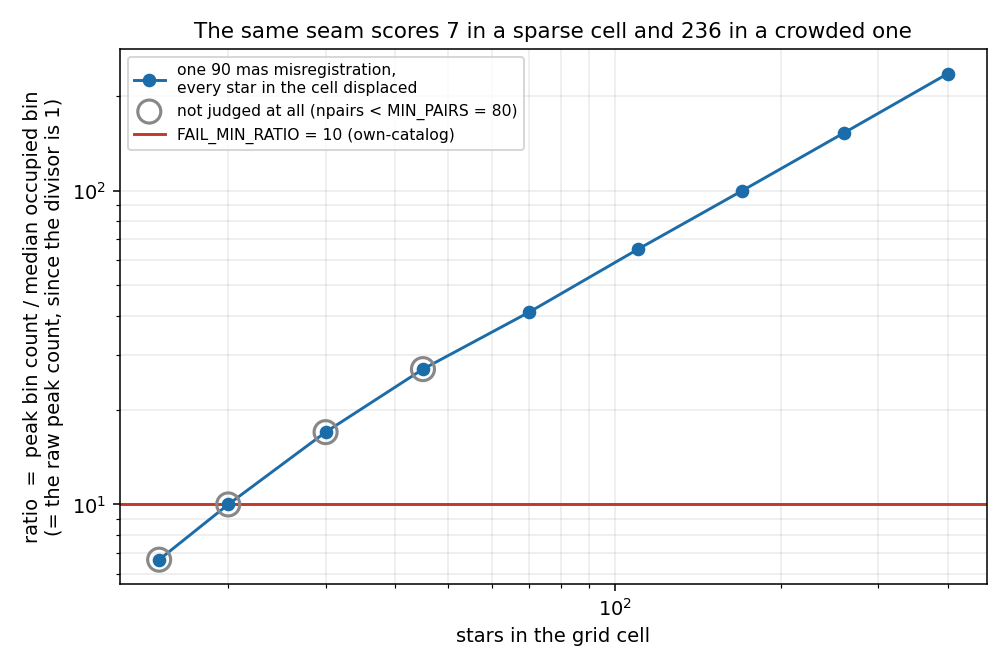
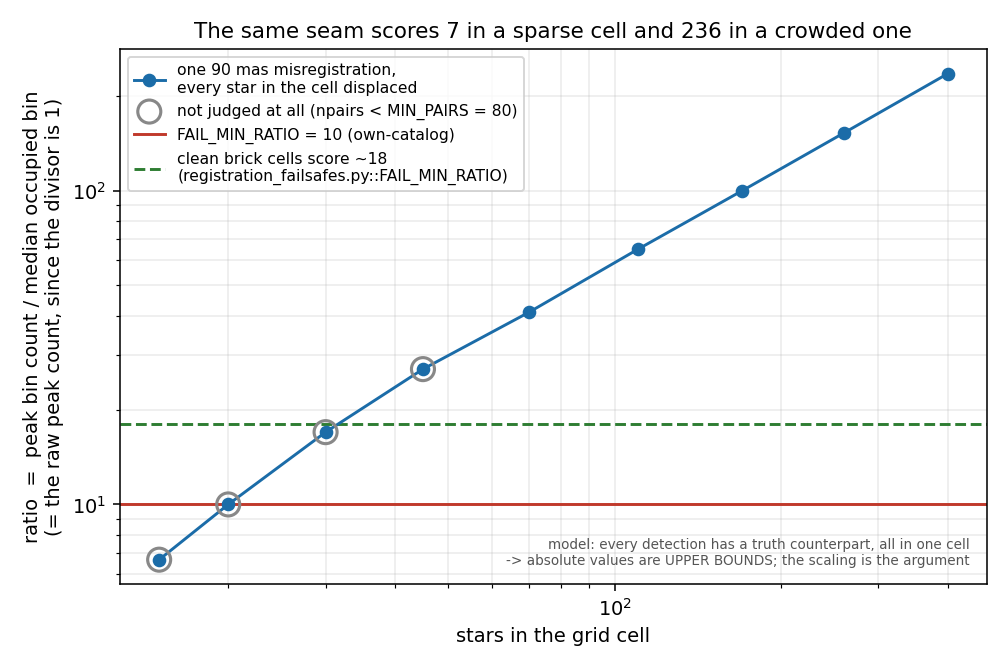
review 5: derive the model's ratio at the real pair counts; drop line-number citations
Three findings from round 5, plus the CI failure they arrived with.

- CI: tests/test_doc_code_references.py failed on two `registration_failsafes.py:52`
  / `:51` citations in the report.  Line numbers go stale silently, which is the
  guard's whole point; both now name the symbol
  (`scripts/release/registration_failsafes.py::FAIL_MIN_RATIO`), as do the three
  the script carried.

- "69-79" was the one number in the document not derived from the model: it was
  read off Table 2's bracketing rows, and the seven real cells fall between them.
  `model_ratio_at_npairs` now solves for the star count that reproduces each
  observed pair count -- pair count grows ~n^1.5, so a straight-line inverse
  overshoots, and the interpolated guess is refined along the local power law
  until the realised count is within 2% -- and measures there.  Run at 231 and
  317 pairs the model scores 66-82, so the range is now computed and printed
  rather than quoted.  The ~4x gap to the recorded clean-cell ~18 is unchanged.

- The script printed "first cleared at 20 stars per cell" directly above a table
  whose 20-star row reads "UNVERIFIED (not even judged)" -- its 23 pairs are under
  MIN_PAIRS = 80, so clearing the bar there decides nothing.  It now reports both:
  the ratio first reaches FAIL_MIN_RATIO at 20 stars, and the first row that
  actually FAILS is 70.

Figure regenerated from the same run.

Claude-Session: https://claude.ai/code/session_017Kovv3DxHxuW9jr8gm7Xb7

diff --git a/scripts/analysis/registration_contrast_statistic.py b/scripts/analysis/registration_contrast_statistic.py
@@ -69,13 +69,15 @@ therefore crossed at a STAR DENSITY, not at a misregistration level.
 And it is crossed low.  The seven brick cells that were a false failure read
 ratio 5-8 at 232-323 pairs; their peak bins held 1.7-2.5% of their pairs, i.e.
 no coherent signal.  The gate's OWN record is the better anchor for where the
-bar sits: registration_failsafes.py:52-54 notes that clean brick cells verify at
-median contrast ~18, so FAIL_MIN_RATIO = 10 is under what a CORRECTLY registered
-cell of that field scores.
+bar sits: the comment on registration_failsafes.py's own `FAIL_MIN_RATIO` notes
+that clean brick cells verify at median contrast ~18, so the bar sits UNDER what
+a correctly registered cell of that field already scores.
 
-CALIBRATION CAVEAT: this model puts a fully misregistered cell of that pair
-count at 69-79, about 4x the recorded ~18 for real clean cells.  It assumes
-every detection has a truth counterpart and that all of them lie in one cell, so
+CALIBRATION CAVEAT: run at those same pair counts (solved for, not read off a
+nearby row), this model puts a fully misregistered cell at 66-82 -- about 4x the
+recorded ~18 for real clean cells.  The run derives and prints that range rather
+than quoting it.  The model assumes every detection has a truth counterpart and
+that all of them lie in one cell, so
 its absolute values are UPPER BOUNDS.  The argument rests on the scaling
 (ratio ~ star count, thresholds fixed), which is arithmetic; a replacement
 threshold must be calibrated on real cells, not on this table.
@@ -121,6 +123,12 @@ POS_SCATTER_ARCSEC = 0.015
 #: comparison of the same regions read <= 22 mas.  (npairs, ratio), from #170.
 BRICK_F405N_FALSE_POSITIVES = [(321, 8), (232, 5), (323, 6), (278, 6),
                                (287, 5), (241, 6), (266, 5)]
+
+#: What a CORRECTLY registered brick cell actually scores, per the release
+#: gate's own record (the comment on registration_failsafes.py::FAIL_MIN_RATIO).
+#: This is the anchor the fail bar should be compared against -- not this script's model, whose
+#: absolute values are upper bounds.
+CLEAN_BRICK_CONTRAST = 18.0
 
 
 def bin_edges():
@@ -175,6 +183,39 @@ def sweep(counts, rng, trials, offset_mas=90.0, displaced_fraction=1.0):
     return rows
 
 
+def model_ratio_at_npairs(targets, rows, rng, trials, tol=0.02, passes=6):
+    """What this model scores at a GIVEN pair count.
+
+    The real cells being compared against are quoted by pair count, not by star
+    count, and they fall BETWEEN the swept rows.  Rather than read the nearest
+    row -- or, worse, quote a number by hand -- solve for the star count that
+    produces each target pair count and run the model there.
+
+    Interpolating the sweep gets within ~6%, which is not close enough to say
+    "at the same density": pair count grows faster than linearly in star count
+    (~n^1.5 here, since each extra star pairs with every other one inside the
+    search radius), so a straight-line inverse overshoots.  So the interpolated
+    guess is refined by rerunning and correcting along that local power law
+    until the realised pair count is within ``tol`` of the target.
+
+    Returns ``[(target, realised npairs, ratio), ...]``.
+    """
+    lp = np.log([r[1] for r in rows])
+    ls = np.log([r[0] for r in rows])
+    slope = np.gradient(lp, ls)          # d log(npairs) / d log(stars)
+    out = []
+    for t in targets:
+        n = max(1, int(round(np.exp(np.interp(np.log(t), lp, ls)))))
+        for _ in range(passes):
+            _n, npair, _off, ratio, _bg = sweep([n], rng, trials)[0]
+            if npair > 0 and abs(npair - t) / t <= tol:
+                break
+            k = float(np.interp(np.log(max(npair, 1)), lp, slope))
+            n = max(1, int(round(n * (t / max(npair, 1)) ** (1.0 / max(k, 0.5)))))
+        out.append((t, npair, ratio))
+    return out
+
+
 def main(argv=None):
     ap = argparse.ArgumentParser(description=__doc__.split("\n")[0])
     ap.add_argument("--trials", type=int, default=25)
@@ -206,19 +247,33 @@ def main(argv=None):
         print(f"{n:>11}{npair:>9.0f}{off:>11.0f}{ratio:>8.0f}  {verdict}")
 
     crossed = next((r[0] for r in rows if r[3] >= FAIL_MIN_RATIO), None)
+    failed = next((r[0] for r in rows if r[1] >= MIN_PAIRS
+                   and r[3] >= MIN_PEAK_RATIO and r[2] > OFF_MAX
+                   and r[3] >= FAIL_MIN_RATIO), None)
     print(f"\nSame seam throughout.  The own-catalog fail bar is "
-          f"FAIL_MIN_RATIO = {FAIL_MIN_RATIO:.0f}, first cleared at "
-          f"{crossed} stars per cell.")
+          f"FAIL_MIN_RATIO = {FAIL_MIN_RATIO:.0f}.  The ratio first reaches it "
+          f"at {crossed} stars per\ncell -- but that cell is NOT judged (its "
+          f"pair count is under MIN_PAIRS = {MIN_PAIRS:.0f}), so\nclearing the "
+          f"bar there decides nothing.  The first row that actually FAILS is "
+          f"{failed}\nstars per cell.")
     frac = [100.0 * r / n for n, r in BRICK_F405N_FALSE_POSITIVES]
+    obs_npairs = [n for n, _ in BRICK_F405N_FALSE_POSITIVES]
+    at = model_ratio_at_npairs([min(obs_npairs), max(obs_npairs)],
+                               rows, rng, args.trials)
+    lo, hi = at[0][2], at[1][2]
     print(f"\nThe seven brick F405N cells that were a FALSE failure in 2026-07 "
-          f"read ratio 5-8\nat npairs 232-323 -- peak bins holding "
+          f"read ratio 5-8\nat npairs {min(obs_npairs)}-{max(obs_npairs)} -- "
+          f"peak bins holding "
           f"{min(frac):.1f}-{max(frac):.1f}% of their pairs, i.e. no coherent "
-          f"signal.\nThe gate's own record (registration_failsafes.py:52-54) "
-          f"puts CLEAN brick cells at\nmedian contrast ~18, so FAIL_MIN_RATIO "
+          f"signal.\nThe gate's own record (registration_failsafes.py::FAIL_MIN_RATIO) "
+          f"puts CLEAN brick cells at\nmedian contrast "
+          f"~{CLEAN_BRICK_CONTRAST:.0f}, so FAIL_MIN_RATIO "
           f"= {FAIL_MIN_RATIO:.0f} is under what a correctly registered cell "
-          f"scores.\nThis model puts a misregistered cell of that density at "
-          f"69-79 -- ~4x the recorded\n~18 -- so its absolute values are upper "
-          f"bounds; the SCALING is the argument.")
+          f"scores.\nRun at matching pair counts ({at[0][1]:.0f} and "
+          f"{at[1][1]:.0f}, solved for), this model scores {lo:.0f}-{hi:.0f} --"
+          f"\n~{(lo + hi) / 2 / CLEAN_BRICK_CONTRAST:.0f}x the recorded "
+          f"~{CLEAN_BRICK_CONTRAST:.0f} -- so its absolute values are upper "
+          f"bounds; the SCALING\nis the argument.")
 
     stars = [r[0] for r in rows]
     ratios = [r[3] for r in rows]
@@ -232,6 +287,12 @@ def main(argv=None):
                zorder=4, label=f"not judged at all (npairs < MIN_PAIRS = {MIN_PAIRS:.0f})")
     ax.axhline(FAIL_MIN_RATIO, color="#c0392b", lw=1.5,
                label=f"FAIL_MIN_RATIO = {FAIL_MIN_RATIO:.0f} (own-catalog)")
+    # The clean-cell anchor belongs ON the figure: the figure is what gets read,
+    # and the point of #170 is that the fail bar sits BELOW what a correctly
+    # registered cell of this field already scores.
+    ax.axhline(CLEAN_BRICK_CONTRAST, color="#2e7d32", lw=1.5, ls="--",
+               label=f"clean brick cells score ~{CLEAN_BRICK_CONTRAST:.0f}\n"
+                     f"(registration_failsafes.py::FAIL_MIN_RATIO)")
     ax.set_xscale("log"); ax.set_yscale("log")
     ax.set_xlabel("stars in the grid cell")
     ax.set_ylabel("ratio  =  peak bin count / median occupied bin\n(= the raw peak count, since the divisor is 1)")
@@ -239,6 +300,13 @@ def main(argv=None):
                  fontsize=11)
     ax.legend(fontsize=8, loc="upper left")
     ax.grid(alpha=.25, which="both")
+    # Read on its own -- as it will be, pasted into the issue -- the curve would
+    # look like a calibrated prediction.  It is not.
+    ax.text(0.98, 0.03,
+            "model: every detection has a truth counterpart, all in one cell\n"
+            "-> absolute values are UPPER BOUNDS; the scaling is the argument",
+            transform=ax.transAxes, ha="right", va="bottom", fontsize=7,
+            color="#555")
     fig.tight_layout()
     os.makedirs(os.path.dirname(args.out) or ".", exist_ok=True)
     fig.savefig(args.out, dpi=140)

diff --git a/docs/reports/REGISTRATION_CONTRAST_STATISTIC.md b/docs/reports/REGISTRATION_CONTRAST_STATISTIC.md
@@ -181,8 +181,8 @@ all, which is what makes them false positives.
 
 **The threshold sits below what a correctly-registered cell scores.** The best
 evidence for that is not this document's model but the gate's own record, at
-`registration_failsafes.py:52-54`: *"the clean brick cells verify at median
-contrast ~18"*. So `FAIL_MIN_RATIO = 10` is under the contrast a **clean** cell
+the comment on `scripts/release/registration_failsafes.py::FAIL_MIN_RATIO`:
+*"the clean brick cells verify at median contrast ~18"*. So `FAIL_MIN_RATIO = 10` is under the contrast a **clean** cell
 of that field produces — a factor of ~1.8 — which puts the bar in the noise, and
 means raising it from 5 to 10 removed those seven cells without ever having
 distinguished them from a seam. A sparse cell's genuine seam scores 7 (Table 2,
@@ -190,10 +190,12 @@ distinguished them from a seam. A sparse cell's genuine seam scores 7 (Table 2,
 populations on this band by luck of density, not because the statistic
 distinguishes them. That is the whole of #170.
 
-**Where the model and the real data disagree, and it is worth saying.** Table 2
-puts a fully misregistered cell of 232–323 pairs at `ratio` **69–79**, against
-that recorded ~18 for real clean brick cells of comparable density — a factor of
-about four. The model assumes every detection has a truth-set counterpart and
+**Where the model and the real data disagree, and it is worth saying.** The
+seven cells fall *between* Table 2's rows, so the model is re-run at their own
+pair counts rather than read off the neighbours: `model_ratio_at_npairs` solves
+for the star count that reproduces 232 and 323 pairs and measures there, giving
+`ratio` **66–82** — against that recorded ~18 for real clean brick cells of
+comparable density, a factor of about four. The model assumes every detection has a truth-set counterpart and
 that all of them sit in the one cell; real catalogs are incomplete and real
 cells are not that clean, so **Table 2's absolute values are upper bounds**.
 What the argument rests on is the *scaling* — `ratio` growing linearly with star
@@ -228,9 +230,9 @@ Two changes, both still unimplemented:
    bar re-creates the exact false alarm this is meant to remove.
 
 An attempt at both, PR #179, was closed without a stated reason, and nothing from
-it is on `main` — verified at `a2e1533`: `FAIL_MIN_RATIO = 10.0` is still at
-`registration_failsafes.py:51`, and neither `FAIL_MIN_SIG` nor `MIN_SEAM_CELLS`
-exists anywhere in the tree.
+it is on `main` — verified at `a2e1533`: `FAIL_MIN_RATIO = 10.0` is still what
+`scripts/release/registration_failsafes.py` declares, and neither `FAIL_MIN_SIG`
+nor `MIN_SEAM_CELLS` exists anywhere in the tree.
 
 ## Loose end
 
